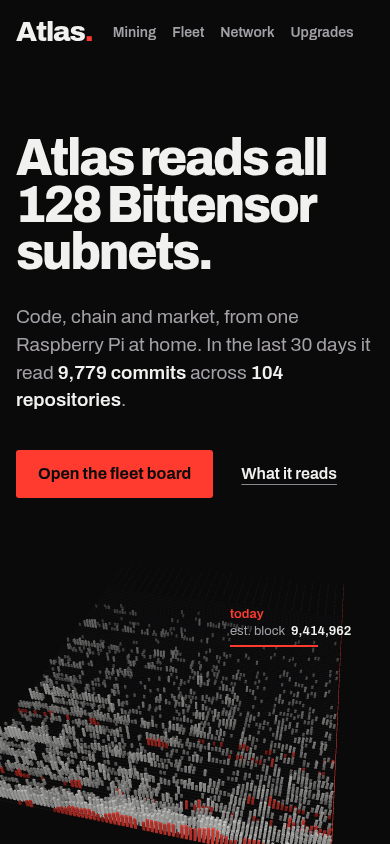
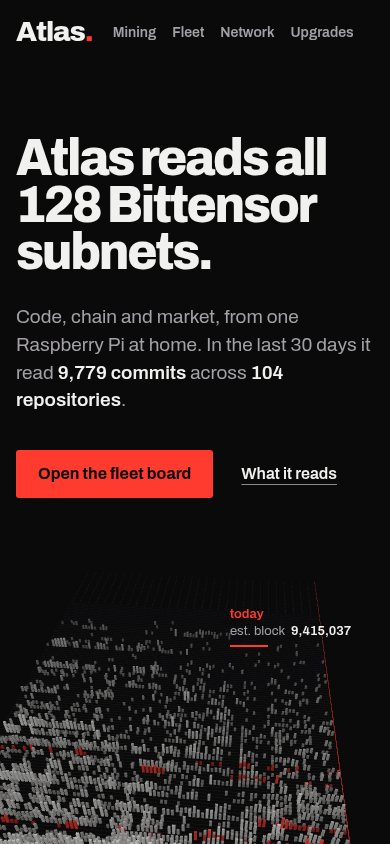
docs(web): calm comp D colour and fix phone view

Changed region(s): [[0.0, 0.7085, 0.9231, 1.0]]

diff --git a/docs/explore/home-motion/d-combined.html b/docs/explore/home-motion/d-combined.html
@@ -27,7 +27,7 @@
   :root {
     --ground: #0a0a0b; --raised: #161618; --raised-2: #1e1e21; --line: #2c2c31;
     --ink: #f1f1ef; --ink-2: #a3a0a6; --ink-3: #8b8890;
-    --red: #ff3b30; --red-deep: #e3291f;
+    --red: #ff3b30; --red-deep: #e3291f; --up: #3fcf7a;
     --inv: #f1f1ef; --inv-2: #5c5955; --inv-line: #cfcfcb; --inv-red: #d91c12; --inv-seg: #e2e2df; --inv-seg-2: #d6d6d2;
     --sans: "Archivo", "Helvetica Neue", Arial, sans-serif;
     --gutter: clamp(16px, 4vw, 64px);
@@ -46,6 +46,7 @@
   .sr { position: absolute; width: 1px; height: 1px; overflow: hidden; clip: rect(0 0 0 0); white-space: nowrap; }
   .fig { font-weight: 850; font-stretch: 85%; letter-spacing: -0.045em; line-height: 0.86; }
   .dn { color: var(--red); }
+  .up { color: var(--up); }
   .r { text-align: right; }
 
   /* Header */
@@ -136,6 +137,7 @@
   .seg div:hover { background: var(--inv-seg-2); }
   .seg div b { font-weight: 700; }
   .seg div.top { box-shadow: inset 0 -3px 0 var(--inv-red); }
+  .seglegend { display: none; }
   .seg div.rest { background: transparent; box-shadow: inset 0 0 0 1px var(--inv-line); color: var(--inv-2); }
   .moves .seg div { transform: scaleX(0); transition: transform 900ms var(--ease-expo), background-color 160ms ease; }
   .moves .seg.go div { transform: none; }
@@ -194,26 +196,25 @@
   .wrow .s { font-size: 14px; color: var(--ink-2); }
   .boxes { display: flex; gap: 3px; }
   .boxes i { width: 11px; height: 11px; display: block; box-shadow: inset 0 0 0 1.5px var(--ink-3); }
-  .boxes i.p { background: var(--ink); box-shadow: none; }
+  .boxes i.p { background: var(--up); box-shadow: none; }
   .moves .boxes i.p { background: transparent; box-shadow: inset 0 0 0 1.5px var(--ink-3); transition: background-color 260ms ease, box-shadow 260ms ease; }
-  .moves .wrows.go .boxes i.p { background: var(--ink); box-shadow: none; }
+  .moves .wrows.go .boxes i.p { background: var(--up); box-shadow: none; }
   .wrow .c { text-align: right; font-weight: 600; }
   .more { display: inline-block; margin-top: 16px; font-size: 14px; }
 
   /* Boards on a red field */
-  .redfield { background: var(--red); color: #0a0a0b; margin-top: clamp(112px, 11vw, 176px); padding: clamp(80px, 8vw, 128px) 0; }
+  .redfield { background: var(--raised); color: var(--ink); margin-top: clamp(112px, 11vw, 176px); padding: clamp(80px, 8vw, 128px) 0; }
   .redfield h2 { font-size: clamp(44px, 4.6vw, 72px); font-weight: 850; font-stretch: 92%; letter-spacing: -0.045em; line-height: 0.92; }
   .boards { margin-top: 40px; }
   .boards a {
     display: grid; grid-template-columns: minmax(0, 5fr) minmax(0, 4fr) minmax(0, 3fr); column-gap: 40px; align-items: baseline;
-    padding: 24px 20px; margin: 0 -20px; text-decoration: none; box-shadow: inset 0 1px 0 rgba(10,10,11,0.28); transition: background-color 180ms ease;
+    padding: 24px 20px; margin: 0 -20px; text-decoration: none; box-shadow: inset 0 1px 0 var(--line); transition: background-color 180ms ease;
   }
-  .boards a:hover { background: var(--red-deep); }
-  .boards .bn { font-size: clamp(32px, 3.6vw, 56px); font-weight: 760; letter-spacing: -0.035em; line-height: 1; font-stretch: 92%; transition: font-stretch 520ms var(--ease-expo); }
-  .boards a:hover .bn, .boards a:focus-visible .bn { font-stretch: 122%; }
+  .boards a:hover { background: var(--raised-2); }
+  .boards .bn { font-size: clamp(32px, 3.6vw, 56px); font-weight: 760; letter-spacing: -0.035em; line-height: 1; font-stretch: 92%; transition: font-stretch 520ms var(--ease-expo), color 180ms ease; }
+  .boards a:hover .bn, .boards a:focus-visible .bn { font-stretch: 122%; color: var(--red); }
   .boards .q { font-size: 20px; line-height: 1.35; font-weight: 600; }
-  .boards .f { line-height: 1.45; }
-  .boards a:focus-visible { outline-color: #0a0a0b; }
+  .boards .f { line-height: 1.45; color: var(--ink-2); }
 
   /* Three columns */
   .cols { display: grid; grid-template-columns: repeat(3, minmax(0, 1fr)); gap: clamp(28px, 3vw, 48px); }
@@ -224,8 +225,8 @@
   .prow .x { font-size: 34px; text-align: right; }
   .prow .x small { font-size: 16px; font-weight: 700; font-stretch: 100%; letter-spacing: 0; margin-left: 2px; }
   .spark { display: block; width: 104px; height: 30px; overflow: visible; }
-  .spark path { fill: none; stroke: var(--ink); stroke-width: 1.5; vector-effect: non-scaling-stroke; }
-  .spark path.last { stroke: var(--red); }
+  .spark path { fill: none; stroke: var(--up); stroke-opacity: 0.55; stroke-width: 1.5; vector-effect: non-scaling-stroke; }
+  .spark path.last { stroke-opacity: 1; stroke-width: 2.25; }
   .moves .spark path { transition: stroke-dashoffset 1200ms var(--ease-expo); }
   table { width: 100%; border-collapse: collapse; font-size: 15px; }
   th { text-align: left; font-weight: 500; font-size: 13px; color: var(--ink-2); padding: 0 0 10px; }
@@ -270,10 +271,13 @@
     .bar .fresh { display: none; }
     .hero-copy { max-width: none; }
     .fixed .figure { height: 400px; margin-top: 24px; }
-    .fixed .stops { padding-top: 16px; }
+    .fixed .stops { padding-top: 64px; }
     .band .wrap { grid-template-columns: 1fr; gap: 22px; padding-top: 24px; padding-bottom: 30px; }
     .seg { height: 40px; }
-    .seg div span { display: none; }
+    .seg div b, .seg div span { display: none; }
+    .seglegend { display: grid; grid-template-columns: 1fr 1fr; gap: 6px 16px; margin-top: 12px; font-size: 14px; }
+    .seglegend li { display: flex; justify-content: space-between; gap: 8px; }
+    .seglegend b { font-weight: 700; }
     .bfigs { grid-template-columns: 1fr 1fr; gap: 18px; }
     .leadp { padding: 0 16px 20px; margin: 0 calc(var(--gutter) * -1); }
     .tabs { gap: 22px; overflow-x: auto; scrollbar-width: none; }
@@ -345,6 +349,7 @@
       <div style="min-width:0">
         <div class="seg" data-fill="seg"></div>
         <div class="lab2" data-fill="segcap" style="margin-top:10px">Where the commits went</div>
+        <ul class="seglegend" data-fill="seglegend"></ul>
       </div>
       <dl class="bfigs" data-ui data-fill="bfigs"></dl>
     </div>
@@ -385,7 +390,7 @@
       </div>
       <div class="col">
         <h2>Busiest this week</h2>
-        <p class="cap">Commits in the last 7 days. The line is 30 days of commits; red is this week.</p>
+        <p class="cap">Commits in the last 7 days. The line is 30 days of commits; the bright end is this week.</p>
         <ul class="prows" data-ui data-fill="busy"></ul>
       </div>
       <div class="col">
@@ -453,6 +458,8 @@
     put("seg", top.map(function (s, i) {
       return '<div style="flex:' + c30(s) + '" class="' + (i === 0 ? "top" : "") + '" title="' + s.name + ", " + fmt(c30(s)) + ' commits"><b>' + s.name + "</b><span>" + fmt(c30(s)) + "</span></div>";
     }).join("") + '<div class="rest" style="flex:' + restN + '"><b>' + (read.length - 7) + " others</b><span>" + fmt(restN) + "</span></div>");
+    put("seglegend", top.slice(0, 5).map(function (s) { return "<li><b>" + s.name + "</b><span>" + fmt(c30(s)) + "</span></li>"; }).join("") +
+      "<li><span>" + (read.length - 5) + " others</span><span>" + fmt(total - sum(top.slice(0, 5).map(c30))) + "</span></li>");
     put("bfigs", [[C.diverging, "Code and price apart", "rd"], [C.cold, "Gone cold"], [C.invisible, "No public repository"], ["-", "est. block", "", "data-block"]]
       .map(function (f) { return "<div><dd><b class=\"" + (f[2] || "") + "\" " + (f[3] || "") + ">" + f[0] + "</b></dd><dt class=\"lab2\">" + f[1] + "</dt></div>"; }).join(""));
 
@@ -465,7 +472,7 @@
       return '<li class="wrow"><a href="/fleet#sn' + s.n + '"><div><div class="n">' + s.name + '</div><div class="s">SN ' + s.n + " · " + last + "</div></div>" +
         '<div class="boxes" aria-label="' + [s.c7 > 0, c30(s) > 0, s.a30 >= 3, s.m30 > 0, !s.opaque].filter(Boolean).length + ' of 5">' +
         box(s.c7 > 0) + box(c30(s) > 0) + box(s.a30 >= 3) + box(s.m30 > 0) + box(!s.opaque) + "</div>" +
-        '<div class="c ' + (s.m30 < 0 ? "dn" : "") + '">' + pct(s.m30).replace("▲ ", "").replace("▼ ", "") + "</div></a></li>";
+        '<div class="c ' + (s.m30 < 0 ? "dn" : s.m30 > 0 ? "up" : "") + '">' + pct(s.m30).replace("▲ ", "").replace("▼ ", "") + "</div></a></li>";
     }).join(""));
     put("allLink", "All " + A.scored + " scored subnets");
 
@@ -480,7 +487,7 @@
     var cold = scored.filter(function (s) { return s.cold; }).slice(0, 6);
     put("coldCap", C.cold + " subnets on the board stopped committing while their token kept trading. Days since the last commit.");
     put("cold", cold.map(function (s) {
-      return '<li class="prow"><div><div class="n">' + s.name + '</div><div class="w">SN ' + s.n + " · price 30 d <span class=\"" + (s.m30 < 0 ? "dn" : "") + "\">" + pct(s.m30) + "</span></div></div>" +
+      return '<li class="prow"><div><div class="n">' + s.name + '</div><div class="w">SN ' + s.n + " · price 30 d <span class=\"" + (s.m30 < 0 ? "dn" : s.m30 > 0 ? "up" : "") + "\">" + pct(s.m30) + "</span></div></div>" +
         '<div class="x fig">' + s.dsc + "<small>d</small></div></li>";
     }).join(""));
 
@@ -591,7 +598,7 @@
       var price = s.m30;
       var last = s.dsc === 0 ? "today" : s.dsc + " days ago";
       return '<div class="lh"><div><h3>' + s.name + "<span>SN " + s.n + "</span></h3><p>" + (X.WHY[s.why] || "On the board") + ". Score " + s.score + " of 100.</p></div>" +
-        '<div class="k"><b class="fig ' + (price < 0 ? "dn" : "") + '" data-to="' + price + '">' + X.pct(price) + "</b><span>price, 30 days</span></div></div>" +
+        '<div class="k"><b class="fig ' + (price < 0 ? "dn" : price > 0 ? "up" : "") + '" data-to="' + price + '">' + X.pct(price) + "</b><span>price, 30 days</span></div></div>" +
         '<div class="chart"><svg viewBox="0 0 ' + W + " " + H + '" preserveAspectRatio="none" aria-label="Daily commits for ' + s.name + ' over 90 days" role="img"><g class="bars pre">' + bars + '</g><path class="cum" d="' + cum + '"/></svg>' +
         '<div class="readout" aria-hidden="true"></div>' +
         '<div class="ax"><span>' + short(dateOf(0)) + "</span><span>" + short(dateOf(30)) + "</span><span>" + short(dateOf(60)) + "</span><span>" + short(dateOf(89)) + " today</span></div>" +
@@ -601,8 +608,8 @@
           ["Commits, 30 days", X.c30(s), "of " + X.fmt(X.sum(d)) + " in 90 days"],
           ["Authors, 30 days", s.a30, "people pushing code"],
           ["Last commit", s.dsc === 0 ? "today" : s.dsc + " d", last === "today" ? "code moved today" : "ago"],
-          ["Price, 7 days", X.pct(s.m7).replace("▲ ", "").replace("▼ ", ""), "after " + X.pct(price).replace("▲ ", "").replace("▼ ", "") + " over 30"]
-        ].map(function (t) { return '<div><div class="v fig">' + t[1] + '</div><div class="h">' + t[0] + '</div><div class="t">' + t[2] + "</div></div>"; }).join("") + "</div>";
+          ["Price, 7 days", X.pct(s.m7).replace("▲ ", "").replace("▼ ", ""), "after " + X.pct(price).replace("▲ ", "").replace("▼ ", "") + " over 30", s.m7 < 0 ? "dn" : s.m7 > 0 ? "up" : ""]
+        ].map(function (t) { return '<div><div class="v fig ' + (t[3] || "") + '">' + t[1] + '</div><div class="h">' + t[0] + '</div><div class="t">' + t[2] + "</div></div>"; }).join("") + "</div>";
     }
 
     var cur = 0, auto = MOVES, timer = null, inView = false;
@@ -830,7 +837,7 @@ async function three() {
     { pos: [26, 12, 82], look: [52, 1, 22], fov: 42 },
     { pos: [48, 17, 92], look: [30, 0.4, 38], fov: 38 },
   ];
-  const PHONE = { pos: [30, 96, 124], look: [6, -2, 24], fov: 44 };
+  const PHONE = { pos: [4, 92, 116], look: [2, -10, 8], fov: 44 };
   const ease = (t) => (t < 0.5 ? 4 * t * t * t : 1 - Math.pow(-2 * t + 2, 3) / 2);
   const lerp = (a, b, t) => a + (b - a) * t;
   const camPos = new THREE.Vector3(), camLook = new THREE.Vector3();
@@ -839,6 +846,13 @@ async function three() {
     if (!FLY) {
       const s = OVER ? STOPS[0] : PHONE;
       camPos.set(...s.pos); camLook.set(...s.look); camera.fov = s.fov;
+      if (!OVER && !STILL) {
+        // Phones: no flight, so the camera sways slowly across the field instead.
+        const k = (now - t0) / 1000;
+        camPos.x += Math.sin(k * 0.22) * 26;
+        camPos.y += Math.sin(k * 0.15) * 8;
+        camLook.x += Math.sin(k * 0.22) * 8;
+      }
     } else {
       const seg = Math.min(STOPS.length - 2, Math.floor(p * (STOPS.length - 1)));
       const local = p * (STOPS.length - 1) - seg;
@@ -989,7 +1003,7 @@ async function three() {
     cancelAnimationFrame(raf);
     raf = requestAnimationFrame(function step(now) {
       if (!visible || document.hidden) return;
-      const drifting = FLY && progress < 0.06;
+      const drifting = (FLY && progress < 0.06) || (!FLY && !OVER && !STILL);
       if (grow) {
         place(growAt(now));
         if (now - grow > 1050) { grow = null; place(); }

diff --git a/docs/explore/home-motion/index.html b/docs/explore/home-motion/index.html
@@ -61,12 +61,12 @@
     </div>
     <div>
       <h2 id="d-title">D. Flight and instrument</h2>
-      <p class="lead">B's camera flight, then the subnt trader's look: an inverted band, a lead panel and dense rows, with C's board hover on a red field.</p>
+      <p class="lead">B's camera flight, then the subnt trader's look: an inverted band, a lead panel and dense rows, with C's board hover.</p>
       <dl>
         <dt>What moves</dt><dd>The flight; then the band's month total counts up and its commit bar opens; the lead panel cycles the top 3 subnets, bars rise and the running total draws; squares fill row by row; sparklines draw; board names widen on hover; the closing name widens with the scroll.</dd>
         <dt>Encodes</dt><dd>Daily commits, who wrote the month's commits, fleet score, authors, last commit, price change, runtime spec gaps, the estimated block.</dd>
-        <dt>Look</dt><dd>Archivo only, heavy and condensed for figures. Near-black ground, bone ink, signal red. No teal, per DESIGN.md.</dd>
-        <dt>Port</dt><dd>About 2 to 3 days. Three.js is new; everything below the flight is plain markup and small client components. Needs DESIGN.md changes for type, colour and the red field.</dd>
+        <dt>Look</dt><dd>Archivo only, heavy and condensed for figures. Near-black ground, bone ink, signal red as the accent, green for what rose.</dd>
+        <dt>Port</dt><dd>About 2 to 3 days. Three.js is new; everything below the flight is plain markup and small client components. Needs DESIGN.md changes for type and colour, including green for rises.</dd>
       </dl>
       <div class="go"><a class="btn" href="d-combined.html">Open option D</a></div>
     </div>
